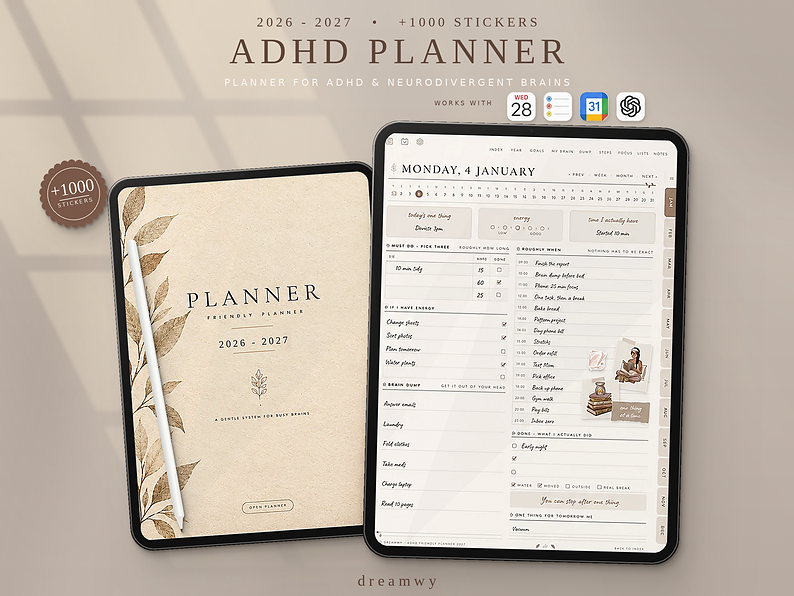
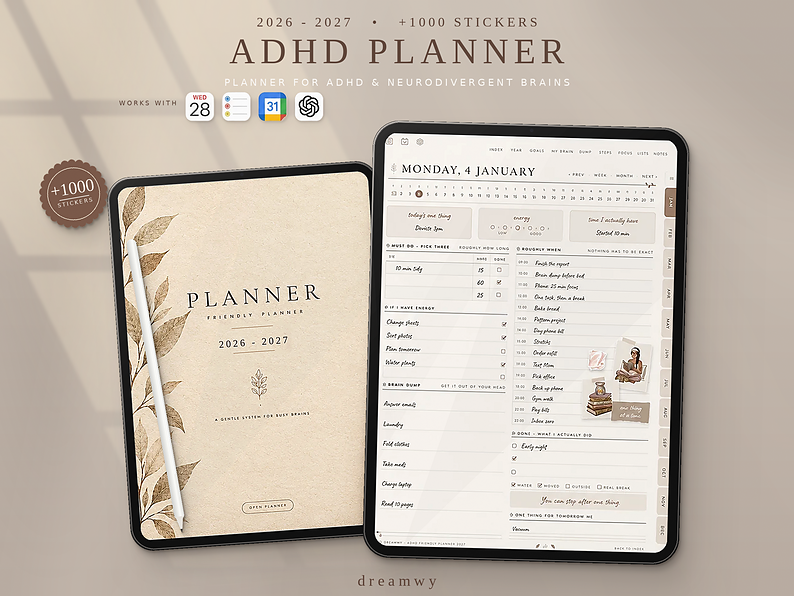
Mockup: move WORKS WITH row to the left, refresh 794x596 export
Claude-Session: https://claude.ai/code/session_015ZGVvYxuW9E1f2kNKHXQzt

Changed region(s): [[0.1511, 0.151, 0.4232, 0.2114], [0.6348, 0.151, 0.8161, 0.2114], [0.5441, 0.151, 0.6045, 0.1812]]

diff --git a/mockup/make_mockup.py b/mockup/make_mockup.py
@@ -309,9 +309,12 @@ spaced(d, (W / 2, 232), "PLANNER FOR ADHD & NEURODIVERGENT BRAINS", ImageFont.tr
 IC = 88
 tiles = [i.resize((IC, IC), Image.LANCZOS).filter(ImageFilter.UnsharpMask(1.2, 90, 0)) for i in (icon_acal, icon_rem, icon_gcal, icon_gpt)]
 gap = 22
-x0 = 1950 - (IC * 4 + gap * 3)
+lab_font = ImageFont.truetype(sans, 19)
+LEFT = 360                                         # left edge of the cover tablet
+lab_w = sum(d.textlength(c, font=lab_font) for c in "WORKS WITH") + 5 * 9
+x0 = int(LEFT + lab_w + 28)
 mk_i = Image.new("L", (IC, IC), 0); ImageDraw.Draw(mk_i).rounded_rectangle((0, 0, IC - 1, IC - 1), radius=21, fill=255)
-spaced(d, (x0 - 28 - 105, 278 + 22), "WORKS WITH", ImageFont.truetype(sans, 19), ink, 5)
+spaced(d, (LEFT, 278 + 22), "WORKS WITH", lab_font, ink, 5, anchor_center=False)
 x = x0
 for ic in tiles:
     tile = Image.new("RGBA", (IC, IC)); tile.paste(ic, (0, 0)); tile.putalpha(mk_i)
